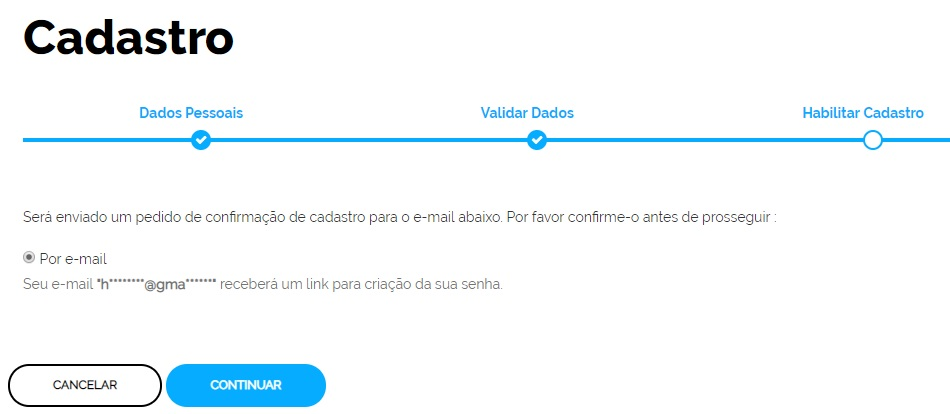
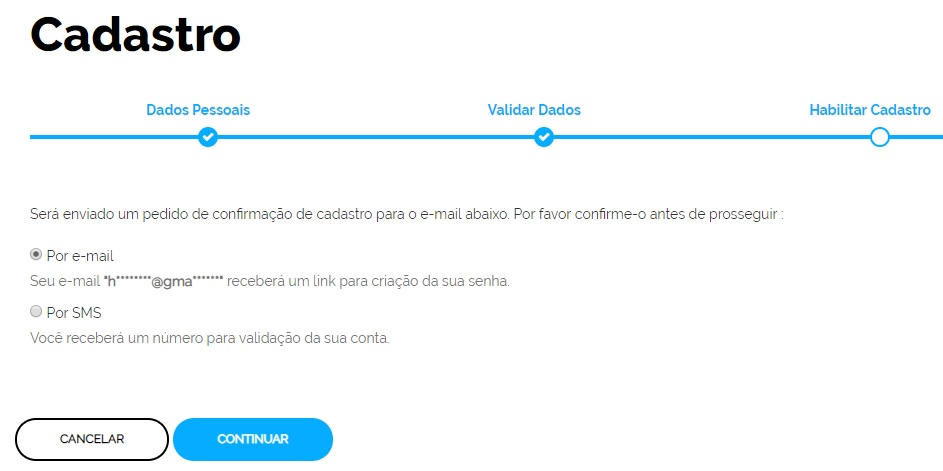
Alteracao telas com SMS e Dominio oficial

diff --git a/_perguntasdafaq/contaacesso.rst b/_perguntasdafaq/contaacesso.rst
@@ -7,7 +7,7 @@ Para criar uma conta de acesso, clique no botão `Fazer Cadastro`_ |site externo
    :align: center
    :alt: Tela de acesso inicial do Login Único com destaque do botão Fazer Cadastro em destaque
 
-1. Tenha em mãos um documento de identidade, número do CPF, nome completo, e-mail e clique no botão continuar
+1. Tenha em mãos um documento de identidade, número do CPF, nome completo, e-mail e número do celular e clique no botão continuar
 
 .. figure:: _images/telafazercadastrocombotaocontinuargovbr.jpg
    :align: center
@@ -19,25 +19,31 @@ Para criar uma conta de acesso, clique no botão `Fazer Cadastro`_ |site externo
    :align: center
    :alt: Tela com as perguntas serem respondidas pelo cidadão para confirmação do cadastro. As perguntas são Qual o Ano de Nascimento?, Qual o primeiro nome da Mãe?, Qual seu mês de nascimento?
 
-3. Após a verificação das respostas, a Plataforma enviará uma mensagem  ao seu e-mail.
+3. Após a verificação das respostas, a Plataforma enviará uma mensagem ou para email ou para número do celular. A opção SMS só estará ativa se o número de celular tiver sido informado, conforme passo 1.
 
 .. figure:: _images/envioemailcadastrarsenhagovbr.jpg
    :align: center
    :alt: Tela com confirmação do e-mail a ser encaminhada. Os elementos presentes são e-mail com partes misturadas (evitar identificação) e os botões CONFIRMAR e CANCELAR
 
-4. Abra o seu e-mail e clique no link enviado (confira na caixa de spam caso não esteja na caixa de entrada),
+4. Caso tenha escolhido a opção do email, abra o seu e-mail e clique no link enviado (confira na caixa de spam caso não esteja na caixa de entrada)
 
 .. figure:: _images/emailcomlinkparasenha.jpg
    :align: center
    :alt: Texto do email encaminhado ao cidadão para realizar o cadastramento da conta. O texto do email é "Assunto com Brasil Cidadão: confirmação do cadastro e texto para indicar a forma de cadastramento com link" 
 
-5. Definir uma senha e finalizar o cadastro e ativar sua conta.
+5. Caso tenha escolhido a opção do SMS, conferir a mensagem recebida no celular informado e digitar o código no campo **Informe o código de validação** e clique no botão **Validar Cadastro**
+
+.. figure:: _images/teladigitarsmsparaconfirmacao.jpg
+   :align: center
+   :alt: Tela de confirmação do código SMS com os botões Cancelar, Validar Cadastro e Não recebi o SMS 
+   
+6. Definir uma senha e finalizar o cadastro e ativar sua conta.
 
 .. figure:: _images/telacadastramentosenhagovbr.jpg
    :align: center
    :alt: Tela para ativação do cadastro, tendo um descritivo para orientar como cadastrar a senha e os campos CPF, SENHA, REPETIR SENHA e os botões CRIAR SENHA ou CANCELAR. 
 
-Caso você tenha um certificado digital compatível pessoa físicacom a ICP-Brasil, você poderá usá-lo no seu primeiro cadastro començando pelo passo 2.
+Caso você tenha um certificado digital pessoa física compatível com a ICP-Brasil, você poderá usá-lo no seu primeiro cadastro començando pelo passo 2.
 
 **Possíveis Palavras/Termos (Utilizado para busca no chatbot)**
 
@@ -52,6 +58,6 @@ Caso você tenha um certificado digital compatível pessoa físicacom a ICP-Bras
 - fazer cadastro
 - cadastro
 
-.. _`Fazer Cadastro`: https://portal.brasilcidadao.gov.br/servicos-cidadao/acesso/#/primeiro-acesso
+.. _`Fazer Cadastro`: https://acesso.gov.br/servicos-cidadao/acesso/#/primeiro-acesso
 .. |site externo| image:: _images/site-ext.gif
             

diff --git a/_perguntasdafaq/naorecebioemaildeconfirmacao.rst b/_perguntasdafaq/naorecebioemaildeconfirmacao.rst
@@ -1,35 +1,49 @@
-Não recebi e-mail de confirmação
+Não recebi e-mail ou SMS de confirmação
 ================================
 
 Pode ter ocorrido:
 
-- E-mail inválido (erro de digitação) ou; 
+- SMS ou E-mail inválido (erro de digitação) ou; 
 - E-mail de confirmação está na sua caixa de spam (Lixo Eletrônico) ou;
-- E-mail de confirmação ainda não chegou na sua caixa de e-mail. 
+- E-mail de confirmação ainda não chegou na sua caixa de e-mail ou;
+- SMS de confirmação depende da funcionalidade de mensagem está disponível ao celular pela operadora ou;
+- SMS de confirnação depende de créditos disponíveis no plano de celular para recebimento de mensagens.   
 
-Dependendo do serviço de e-mail,pode demorar até 24 horas para chegar na caixa de e-mail.
+Dependendo do serviço de e-mail ,pode demorar até 24 horas para chegar na caixa de e-mail.
 
-Caso não tenha recebido o e-mail, encaminhar e-mail para cidadaniadigital@planejamento.gov.br e informe o problema com detalhes. 
+Dependendo do serviço de SMS, pode não receber a mensagem de imediato. Aguardar alguns minutos para verificar novo envio.
+
+Caso não tenha recebido o e-mail ou SMS, encaminhar e-mail para cidadaniadigital@planejamento.gov.br e informe o problema com detalhes. 
 
 **Possíveis Palavras/Termos (Utilizado para busca no chatbot)**
 
 - e-mail de confirmação
+- SMS de confirmação
 - erro de digitação
 - caixa de spam
 - e-mail errado
 - lixo eletrônico
 - não chegou confirmação
 - cadastrei-me e não recebi o e-mail de confirmação
+- cadastrei-me e não recebi o SMS de confirmação
 - não recebi o e-mail
+- não recebi o SMS
 - não recebi a confirmação
 - não veio e-mail de confirmação
+- não veio SMS de confirmação
 - para onde vai o e-mail de confirmação
 - para onde foi e-mail de confirmação
+- para onde vai o SMS de confirmação
+- para onde foi SMS de confirmação
 - onde está o e-mail de confirmação
 - cade e-mail de confirmação
+- onde está o SMS de confirmação
+- cade SMS de confirmação
 - cade a confirmação
 - Não chegou nenhum e-mail
-- Não recebo o e-mail 
+- Não recebo o e-mail
+- Não chegou nenhum SMS
+- Não recebo o SMS  
 
 .. |site externo| image:: _images/site-ext.gif
             

diff --git a/_perguntasdafaq/epossivelcriarcontadeacessocomcertificadodigital.rst b/_perguntasdafaq/epossivelcriarcontadeacessocomcertificadodigital.rst
@@ -25,7 +25,7 @@ O Certificado digital aceito pelo Brasil Cidadão é dos tipos A1 e A3.
 - não consigo entrar com o certificado digital
 - Estou tentando entrar com certificado digital, porém não tenho êxito  
 
-.. _`Fazer Cadastro` : https://portal.brasilcidadao.gov.br/servicos-cidadao/acesso/#/primeiro-acesso
+.. _`Fazer Cadastro` : https://acesso.gov.br/servicos-cidadao/acesso/#/primeiro-acesso
 .. _`drive do certificado digital` : https://certificados.serpro.gov.br/arserpro/pages/information/drivers_token_download.jsf?
 .. |site externo| image:: _images/site-ext.gif
             

diff --git a/_perguntasdafaq/termodeusoeprivacidade.rst b/_perguntasdafaq/termodeusoeprivacidade.rst
@@ -17,5 +17,5 @@ Para acessar o termo de uso e privacidade do Login Único, acesse `Termos de Uso
 
 .. |site externo| image:: _images/site-ext.gif
 
-.. _`Termos de Uso e Política de Privacidade`: https://portal.brasilcidadao.gov.br/servicos-cidadao/acesso/#/termo-uso-privacidade.pdf
+.. _`Termos de Uso e Política de Privacidade`: https://acesso.gov.br/servicos-cidadao/acesso/#/termo-uso-privacidade.pdf
             

diff --git a/_perguntasdafaq/mensagemousuariojapossuicadastronosistema.rst b/_perguntasdafaq/mensagemousuariojapossuicadastronosistema.rst
@@ -24,6 +24,6 @@ Ao fazer isso, a senha do CPF irá para o e-mail cadastrado na conta do Login Ú
 
 - Mensagem: O usuário já possui cadastro no Sistema; 
  
-.. _`Esqueceu sua senha?`: https://portal.brasilcidadao.gov.br/servicos-cidadao/acesso/#/recuperarSenha
+.. _`Esqueceu sua senha?`: https://acesso.gov.br/servicos-cidadao/acesso/#/recuperarSenha
 .. |site externo| image:: _images/site-ext.gif
             

diff --git a/_perguntasdafaq/esqueciminhasenha.rst b/_perguntasdafaq/esqueciminhasenha.rst
@@ -25,6 +25,6 @@ Tenha em mãos o número do seu CPF.
 - rever minha senha
 - Informa que o usuário já possui cadastro no sistema 
 
-.. _`Esqueceu sua senha?` : https://portal.brasilcidadao.gov.br/servicos-cidadao/acesso/#/recuperarSenha
+.. _`Esqueceu sua senha?` : https://acesso.gov.br/servicos-cidadao/acesso/#/recuperarSenha
 .. |site externo| image:: _images/site-ext.gif
             

diff --git a/_perguntasdafaq/porquaismeiospossoacessar.rst b/_perguntasdafaq/porquaismeiospossoacessar.rst
@@ -29,7 +29,7 @@ Acesso ao `Login Unico`_ |site externo|
 - quero usar o login único/Brasil Cidadão/govbr no celular/smartphone/mobile
 - não tenho computador e quero usar o celular/smartphone/mobile 
 
-.. _`Login Unico`: https://scp.brasilcidadao.gov.br/scp/login
+.. _`Login Unico`: https://acesso.gov.br
 
 .. |site externo| image:: _images/site-ext.gif
             
